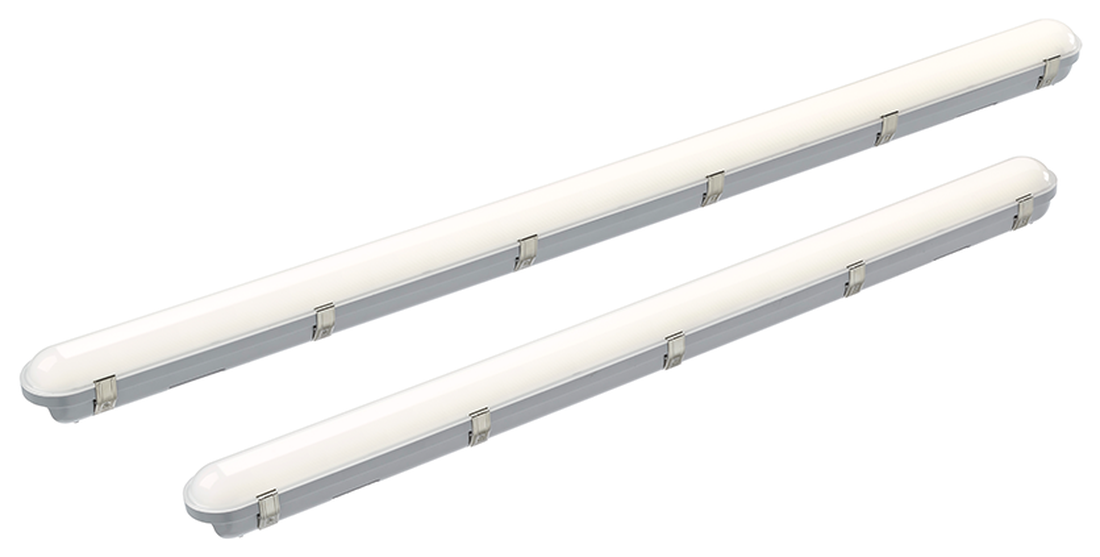
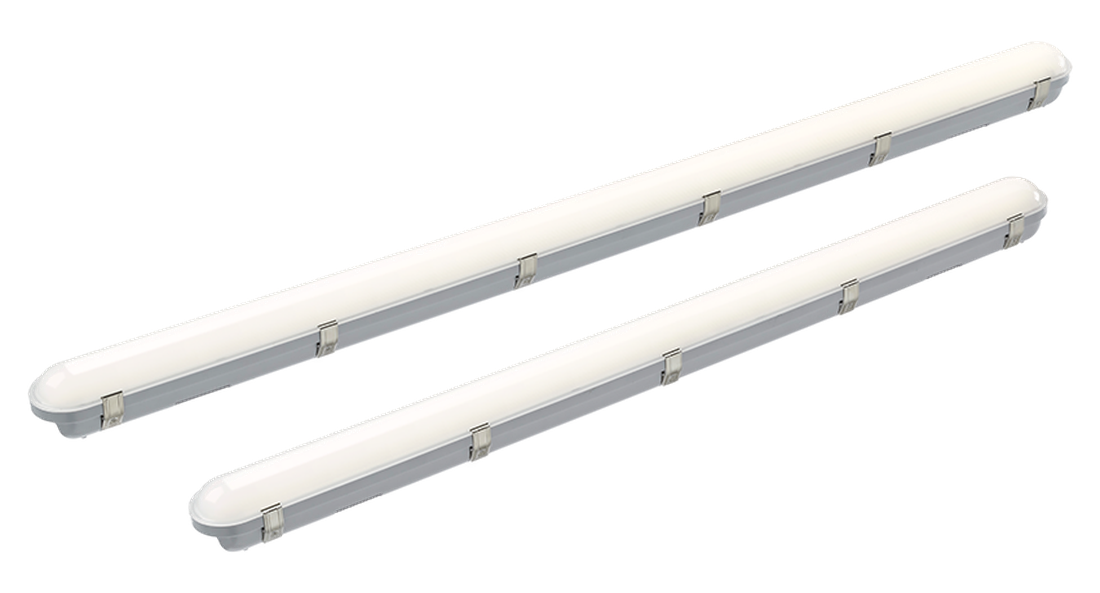
Mounting-spacing simplification, VAL rename/transparency, HMAO image fixes
- DPL: mounting heights table heading now reads "AS1158.3 - PC Spacing
  Guide" via a new optional mountingHeights.heading field in
  product.js (defaults to the previous "Suggested mounting heights"
  text when absent, so no other product is affected).
- DBD and SGB (both bollards, which never had spacing guidance at
  all): added a single indicative "10 m" spacing figure rather than
  a full per-height table, since a ground-level bollard has no
  mounting-height variable to tabulate against.
- DWL: spacing recommendation changed to two rows (3m -> 10m, 5m ->
  15m), replacing the single 15-20m@3m figure.
- VAL: renamed "Vanguard Linear Gen2" to "Vanguard" throughout (name
  + image alt/caption text); removed the "3hr Emergency option"
  badge and the "(LA034-LA084)" code-range aside from the Delivered
  lumens key spec.
- VAL hero/gallery images actually had an opaque white background
  (alpha always 255 — the source renders were never real cutouts),
  which is why they showed as a white box on the dark hero frame.
  Ran proper rembg background removal to get genuine transparency,
  matching every other product's floating-on-black convention.
- HMAO: applications tag simplified to "Area Lighting"; removed the
  low-res daytime install photo from the gallery; re-cropped the
  hero and two-piece-housing photos with proportional (not fixed-
  pixel) padding so both sit at a comparable zoom level to Holobay's
[…]

diff --git a/assets/js/product.js b/assets/js/product.js
@@ -491,7 +491,7 @@
     var mountBlock = m ? (
       '<div>' +
         '<p class="eyebrow">Mounting</p>' +
-        '<h2 style="font-size:var(--text-2xl);margin-bottom:var(--space-2)">Suggested mounting heights</h2>' +
+        '<h2 style="font-size:var(--text-2xl);margin-bottom:var(--space-2)">' + esc(m.heading || "Suggested mounting heights") + '</h2>' +
         '<p style="color:var(--text-muted);font-size:var(--text-sm);margin-bottom:var(--space-5);max-width:60ch">' + esc(m.note) + '</p>' +
         '<div class="table-scroll" style="max-width:420px">' +
           '<table class="perf-table" style="min-width:0">' +
